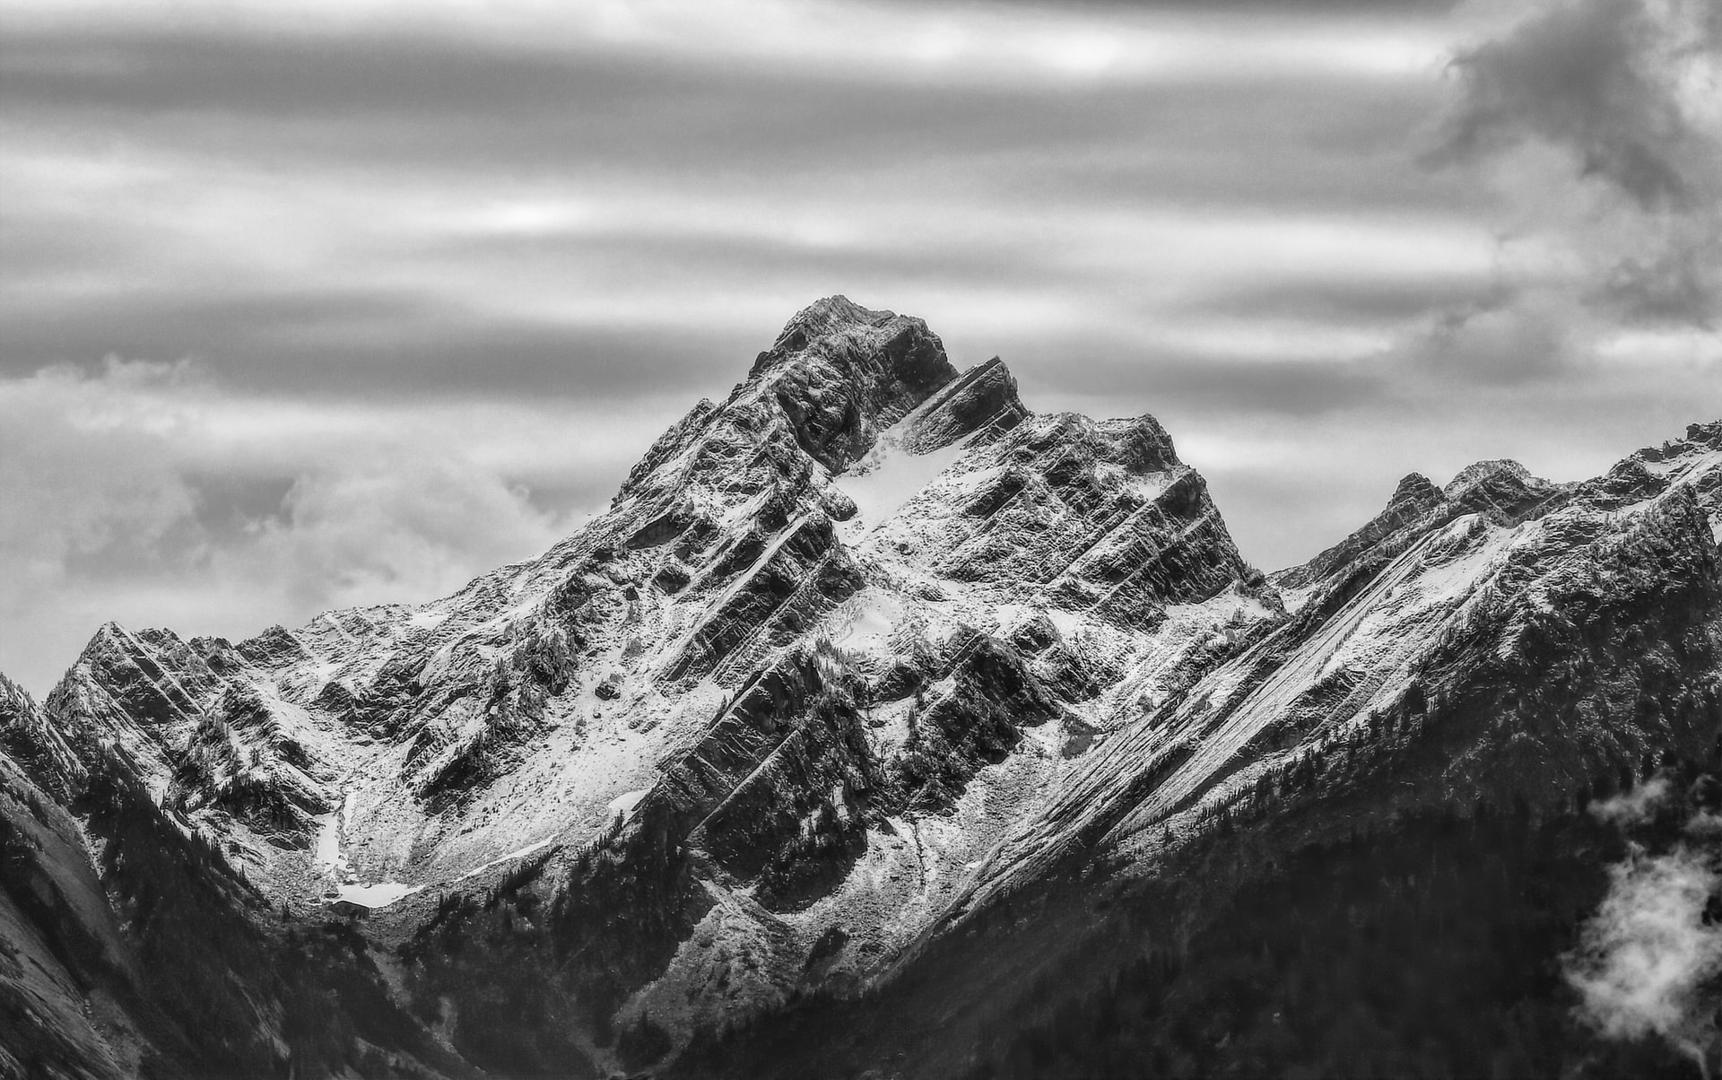
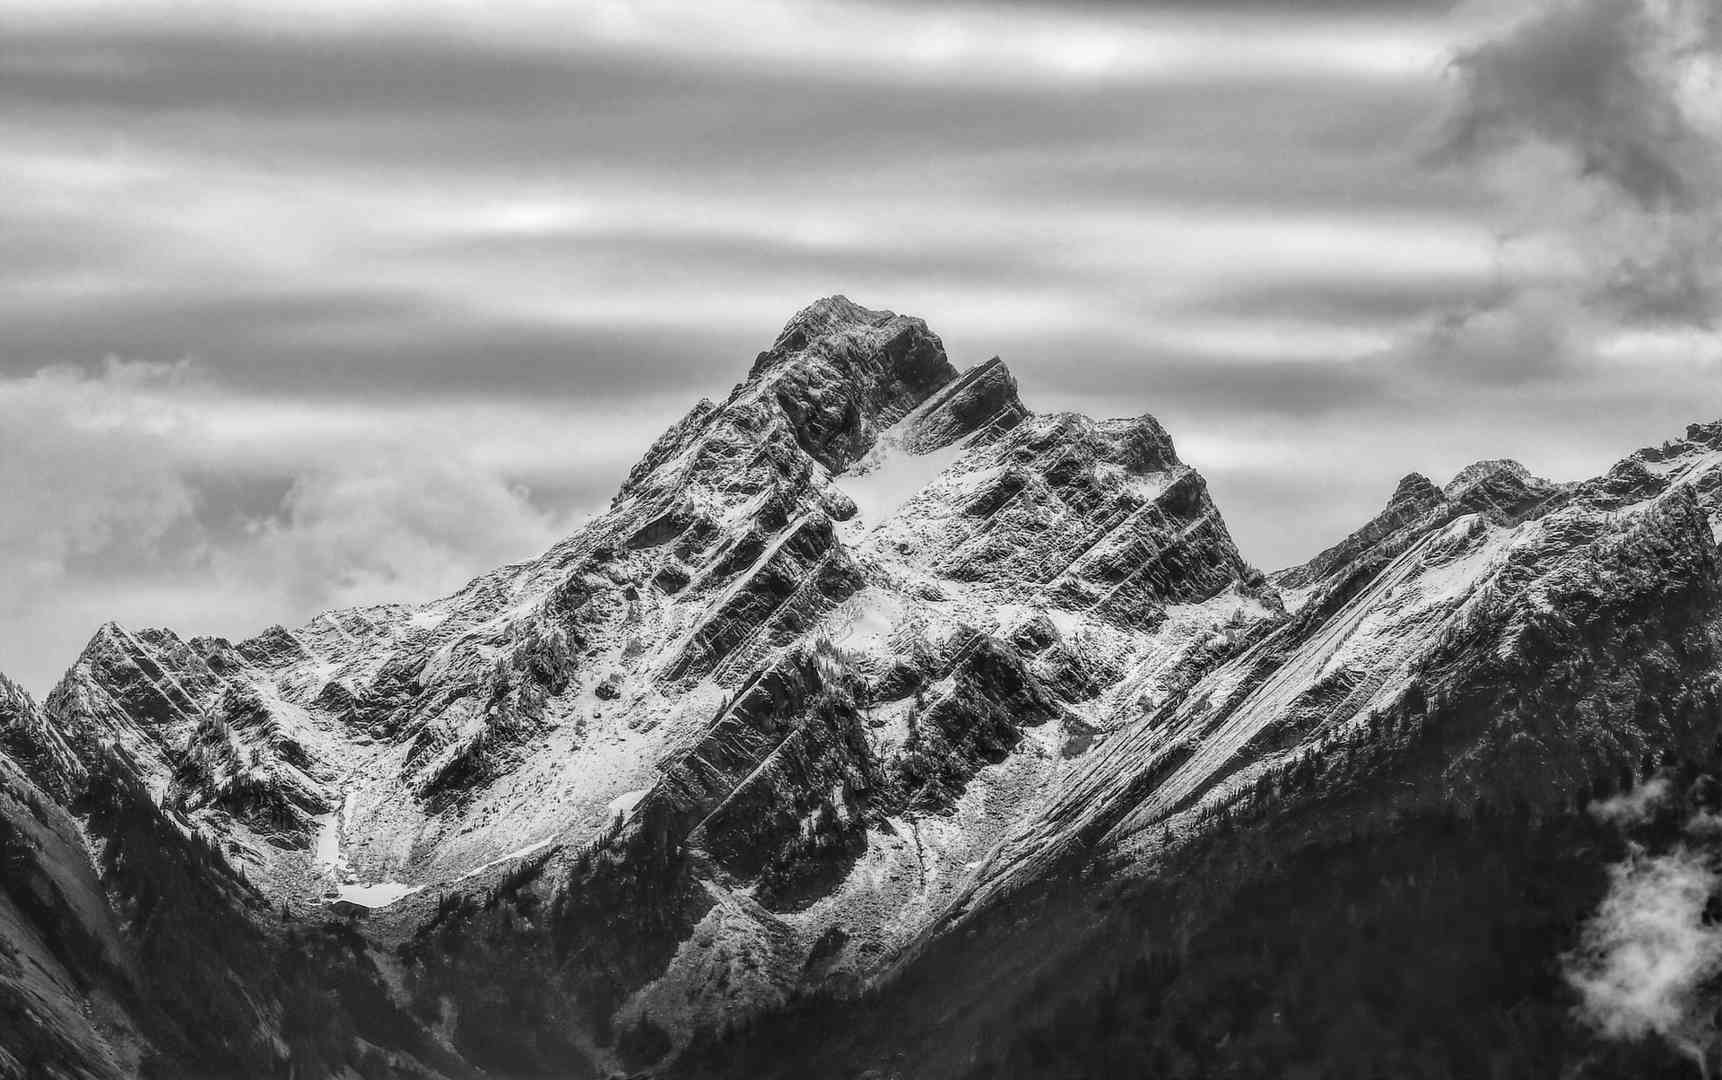
Tag Image Compression added according to image type

diff --git a/beyulback/blog/models.py b/beyulback/blog/models.py
@@ -39,13 +39,20 @@ class Tag(models.Model):
         super(Tag, self).save(*args, **kwargs)
         if not self.slug:
             self.slug = slugify(self.name)
-            
+        image_type = self.background_img.path.split(".")[1]
         img = Image.open(self.background_img.path)
+
         # compressing the background image for better latency and page reload
         if img.height > 1080 or img.width > 1920:
             output_size = (1920, 1080)
             img.thumbnail(output_size)  # preserves the image aspect ratio
-        img.save(self.background_img.path, optimize=True, progressive=True)
+
+        # changes the jpg as progressive and compress the quality upto 70%
+        if image_type in ('jpg', 'jpeg'):
+            img.save(self.background_img.path, optimize=True,
+                     quality=30, progressive=True)
+        elif image_type == 'png':
+            img.save(self.background_img.path, optimize=True)
 
     def __str__(self):
         return self.name
